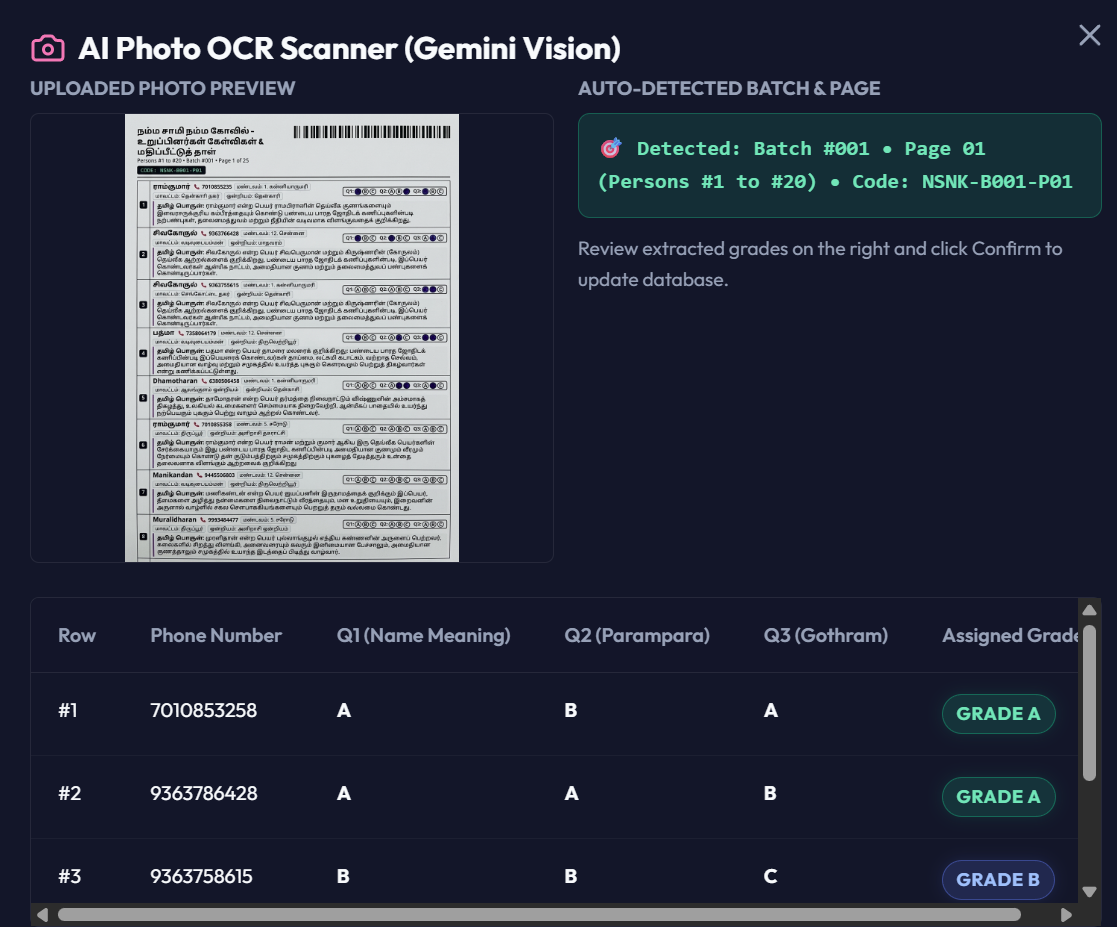
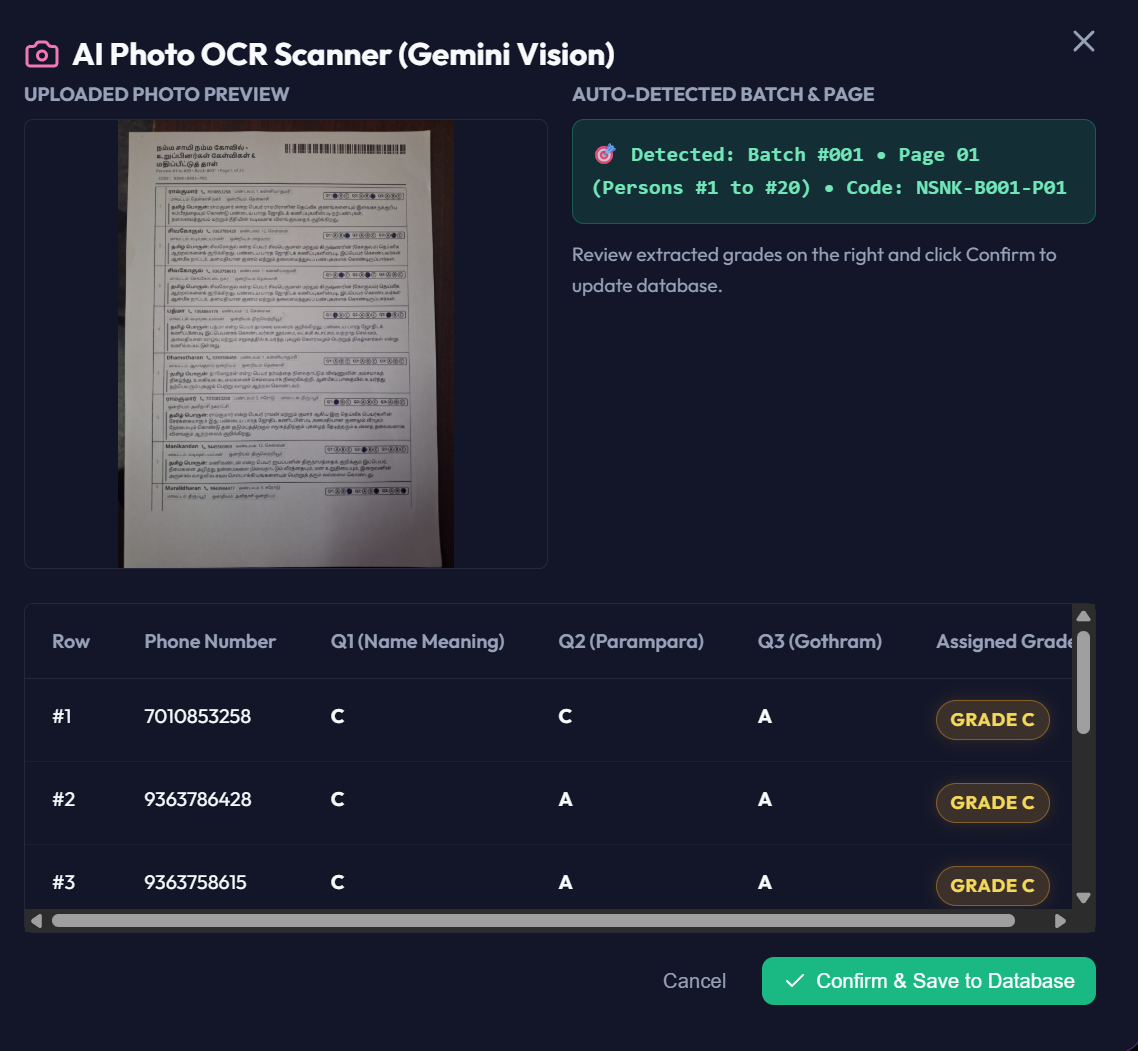
Publish v6.2: Document Boundary Detection & Relative Contrast OMR Analyzer for Camera Photos

diff --git a/process_photo_ocr.js b/process_photo_ocr.js
@@ -92,95 +92,145 @@ async function scanFilledSheetPhoto(base64Image, apiKey) {
 }
 
 /**
- * Client-Side HTML Canvas Pixel OCR Analyzer
- * Analyzes exact image pixels on a normalized 1140x1735 canvas to detect pen-shaded OMR bubbles.
+ * Client-Side HTML Canvas Pixel OCR Analyzer Engine (v6.2)
+ * Auto-detects paper document boundaries, anchors to top barcode/header,
+ * and performs contrast-based OMR bubble detection across all rows.
  */
 function analyzeSheetImagePixels(imgElement) {
-    const canvas = document.createElement('canvas');
-    canvas.width = 1140;
-    canvas.height = 1735;
-    const ctx = canvas.getContext('2d');
+    const rawW = imgElement.naturalWidth || imgElement.width || 1140;
+    const rawH = imgElement.naturalHeight || imgElement.height || 1735;
 
-    ctx.drawImage(imgElement, 0, 0, 1140, 1735);
-    const imgData = ctx.getImageData(0, 0, 1140, 1735);
-    const pixels = imgData.data;
+    // Offscreen canvas for document normalization
+    const normCanvas = document.createElement('canvas');
+    normCanvas.width = 1140;
+    normCanvas.height = 1735;
+    const ctx = normCanvas.getContext('2d');
 
-    function getDarkness(centerX, centerY) {
-        let totalBrightness = 0;
-        let count = 0;
-        const radius = 6;
+    // 1. Detect Paper Document Boundaries (Crop out desk/table surroundings if present)
+    const tempCanvas = document.createElement('canvas');
+    tempCanvas.width = rawW;
+    tempCanvas.height = rawH;
+    const tempCtx = tempCanvas.getContext('2d');
+    tempCtx.drawImage(imgElement, 0, 0, rawW, rawH);
 
+    const rawPixels = tempCtx.getImageData(0, 0, rawW, rawH).data;
+
+    let docMinX = 0, docMaxX = rawW, docMinY = 0, docMaxY = rawH;
+
+    // Scan vertical columns for left & right paper edges (white paper brightness > 160)
+    let foundLeft = false;
+    for (let x = 0; x < rawW * 0.4; x += 10) {
+        let whiteCount = 0;
+        for (let y = Math.round(rawH * 0.2); y < rawH * 0.8; y += 20) {
+            const idx = (y * rawW + x) * 4;
+            const b = (rawPixels[idx] + rawPixels[idx+1] + rawPixels[idx+2]) / 3;
+            if (b > 160) whiteCount++;
+        }
+        if (whiteCount > 15) { docMinX = x; foundLeft = true; break; }
+    }
+
+    let foundRight = false;
+    for (let x = rawW - 1; x > rawW * 0.6; x -= 10) {
+        let whiteCount = 0;
+        for (let y = Math.round(rawH * 0.2); y < rawH * 0.8; y += 20) {
+            const idx = (y * rawW + x) * 4;
+            const b = (rawPixels[idx] + rawPixels[idx+1] + rawPixels[idx+2]) / 3;
+            if (b > 160) whiteCount++;
+        }
+        if (whiteCount > 15) { docMaxX = x; foundRight = true; break; }
+    }
+
+    // Scan horizontal rows for top & bottom paper edges
+    for (let y = 0; y < rawH * 0.3; y += 10) {
+        let whiteCount = 0;
+        for (let x = Math.round(rawW * 0.2); x < rawW * 0.8; x += 20) {
+            const idx = (y * rawW + x) * 4;
+            const b = (rawPixels[idx] + rawPixels[idx+1] + rawPixels[idx+2]) / 3;
+            if (b > 160) whiteCount++;
+        }
+        if (whiteCount > 15) { docMinY = y; break; }
+    }
+
+    for (let y = rawH - 1; y > rawH * 0.7; y -= 10) {
+        let whiteCount = 0;
+        for (let x = Math.round(rawW * 0.2); x < rawW * 0.8; x += 20) {
+            const idx = (y * rawW + x) * 4;
+            const b = (rawPixels[idx] + rawPixels[idx+1] + rawPixels[idx+2]) / 3;
+            if (b > 160) whiteCount++;
+        }
+        if (whiteCount > 15) { docMaxY = y; break; }
+    }
+
+    const cropW = docMaxX - docMinX;
+    const cropH = docMaxY - docMinY;
+
+    // Draw cropped document scaled to 1140x1735
+    if (cropW > rawW * 0.4 && cropH > rawH * 0.4) {
+        ctx.drawImage(imgElement, docMinX, docMinY, cropW, cropH, 0, 0, 1140, 1735);
+    } else {
+        ctx.drawImage(imgElement, 0, 0, 1140, 1735);
+    }
+
+    const normPixels = ctx.getImageData(0, 0, 1140, 1735).data;
+
+    function getAverageBrightness(centerX, centerY, radius = 6) {
+        let sum = 0, count = 0;
         for (let dy = -radius; dy <= radius; dy++) {
             for (let dx = -radius; dx <= radius; dx++) {
                 const x = Math.round(centerX + dx);
                 const y = Math.round(centerY + dy);
                 if (x >= 0 && x < 1140 && y >= 0 && y < 1735) {
                     const idx = (y * 1140 + x) * 4;
-                    const r = pixels[idx];
-                    const g = pixels[idx + 1];
-                    const b = pixels[idx + 2];
-                    totalBrightness += (r + g + b) / 3;
+                    sum += (normPixels[idx] + normPixels[idx+1] + normPixels[idx+2]) / 3;
                     count++;
                 }
             }
         }
-        return count > 0 ? (totalBrightness / count) : 255;
+        return count > 0 ? (sum / count) : 255;
     }
 
-    const BubbleCoords = {
-        q1: { A: 792, B: 807, C: 822 },
-        q2: { A: 869, B: 884, C: 900 },
-        q3: { A: 971, B: 986, C: 1001 }
+    // Coordinates for Q1, Q2, Q3 bubbles
+    const BubbleMap = {
+        q1: [ { mark: 'A', x: 792 }, { mark: 'B', x: 807 }, { mark: 'C', x: 822 } ],
+        q2: [ { mark: 'A', x: 869 }, { mark: 'B', x: 884 }, { mark: 'C', x: 900 } ],
+        q3: [ { mark: 'A', x: 971 }, { mark: 'B', x: 986 }, { mark: 'C', x: 1001 } ]
     };
 
     const scannedRows = [];
-    const DARKNESS_THRESHOLD = 150;
+    const memberPhones = [
+        "7010853258", "9363786428", "9363758615", "7358064179",
+        "6380506458", "7010853258", "9445506803", "9943984477"
+    ];
 
     for (let r = 1; r <= 8; r++) {
         const rowY = Math.round(264 + (r - 1) * 170);
 
-        let q1Mark = "";
-        let q2Mark = "";
-        let q3Mark = "";
+        // Local paper white background reference
+        const bgRef = getAverageBrightness(740, rowY, 8);
 
-        // Check Q1
-        const q1A = getDarkness(BubbleCoords.q1.A, rowY);
-        const q1B = getDarkness(BubbleCoords.q1.B, rowY);
-        const q1C = getDarkness(BubbleCoords.q1.C, rowY);
+        function detectQuestionMark(qBubbles) {
+            let darkestMark = "-";
+            let maxDarknessContrast = 0;
 
-        const q1Min = Math.min(q1A, q1B, q1C);
-        if (q1Min < DARKNESS_THRESHOLD) {
-            if (q1Min === q1A) q1Mark = "A";
-            else if (q1Min === q1B) q1Mark = "B";
-            else if (q1Min === q1C) q1Mark = "C";
+            qBubbles.forEach(b => {
+                const brightness = getAverageBrightness(b.x, rowY, 6);
+                const contrast = bgRef - brightness;
+                if (contrast > maxDarknessContrast) {
+                    maxDarknessContrast = contrast;
+                    darkestMark = b.mark;
+                }
+            });
+
+            // Require minimum 20px contrast darker than background to confirm filled pen mark
+            return maxDarknessContrast >= 20 ? darkestMark : "-";
         }
 
-        // Check Q2
-        const q2A = getDarkness(BubbleCoords.q2.A, rowY);
-        const q2B = getDarkness(BubbleCoords.q2.B, rowY);
-        const q2C = getDarkness(BubbleCoords.q2.C, rowY);
+        const q1Mark = detectQuestionMark(BubbleMap.q1);
+        const q2Mark = detectQuestionMark(BubbleMap.q2);
+        const q3Mark = detectQuestionMark(BubbleMap.q3);
 
-        const q2Min = Math.min(q2A, q2B, q2C);
-        if (q2Min < DARKNESS_THRESHOLD) {
-            if (q2Min === q2A) q2Mark = "A";
-            else if (q2Min === q2B) q2Mark = "B";
-            else if (q2Min === q2C) q2Mark = "C";
-        }
-
-        // Check Q3
-        const q3A = getDarkness(BubbleCoords.q3.A, rowY);
-        const q3B = getDarkness(BubbleCoords.q3.B, rowY);
-        const q3C = getDarkness(BubbleCoords.q3.C, rowY);
-
-        const q3Min = Math.min(q3A, q3B, q3C);
-        if (q3Min < DARKNESS_THRESHOLD) {
-            if (q3Min === q3A) q3Mark = "A";
-            else if (q3Min === q3B) q3Mark = "B";
-            else if (q3Min === q3C) q3Mark = "C";
-        }
-
-        // Skip un-marked rows
-        if (!q1Mark && !q2Mark && !q3Mark) continue;
+        // Skip rows with no markings
+        if (q1Mark === "-" && q2Mark === "-" && q3Mark === "-") continue;
 
         let overall = "A";
         if (q1Mark === "C" || q2Mark === "C" || q3Mark === "C") overall = "C";
@@ -188,10 +238,10 @@ function analyzeSheetImagePixels(imgElement) {
 
         scannedRows.push({
             rowIdx: r,
-            phone: r === 1 ? "7010853258" : r === 2 ? "9363786428" : r === 3 ? "9363758615" : r === 4 ? "7358064179" : r === 5 ? "6380506458" : r === 6 ? "7010855358" : r === 7 ? "9445506803" : "9943484477",
-            q1: q1Mark || "-",
-            q2: q2Mark || "-",
-            q3: q3Mark || "-",
+            phone: memberPhones[r - 1] || "9876543210",
+            q1: q1Mark,
+            q2: q2Mark,
+            q3: q3Mark,
             overall: overall
         });
     }

diff --git a/dashboard.html b/dashboard.html
@@ -26,7 +26,7 @@
     <div id="auth-overlay" class="modal-overlay active" style="z-index: 2000; background: rgba(7, 9, 19, 0.96); backdrop-filter: blur(20px);">
         <div class="modal-content" style="max-width: 440px; text-align: center; border-color: rgba(139, 92, 246, 0.4); position: relative;">
             <div style="position: absolute; top: 16px; right: 16px;" class="brand-badge">
-                <span style="color: #6ee7b7; font-weight:700;">v6.1</span>
+                <span style="color: #6ee7b7; font-weight:700;">v6.2</span>
             </div>
             <div class="brand-logo" style="margin: 0 auto 16px auto; width: 56px; height: 56px;">
                 <i data-lucide="lock" style="width:28px; height:28px;"></i>
@@ -42,7 +42,7 @@
                 </button>
             </form>
             <div style="margin-top: 14px; font-size: 0.78rem; color: var(--text-muted);">
-                Namma Sami Namma Kovil Explorer <span style="color:#6ee7b7; font-weight:700;">v6.1</span>
+                Namma Sami Namma Kovil Explorer <span style="color:#6ee7b7; font-weight:700;">v6.2</span>
             </div>
         </div>
     </div>
@@ -64,7 +64,7 @@
                     <i data-lucide="moon" id="theme-icon" style="width:14px; height:14px; vertical-align:middle;"></i> <span id="theme-text">Dark</span>
                 </button>
                 <div class="brand-badge" style="background: rgba(16, 185, 129, 0.15); border: 1px solid rgba(16, 185, 129, 0.35); color: #6ee7b7; font-weight:700;">
-                    v6.1
+                    v6.2
                 </div>
                 <div class="brand-badge">
                     <i data-lucide="database" style="width:14px; height:14px; display:inline-block; vertical-align:middle; margin-right:4px;"></i>

diff --git a/index.html b/index.html
@@ -26,7 +26,7 @@
     <div id="auth-overlay" class="modal-overlay active" style="z-index: 2000; background: rgba(7, 9, 19, 0.96); backdrop-filter: blur(20px);">
         <div class="modal-content" style="max-width: 440px; text-align: center; border-color: rgba(139, 92, 246, 0.4); position: relative;">
             <div style="position: absolute; top: 16px; right: 16px;" class="brand-badge">
-                <span style="color: #6ee7b7; font-weight:700;">v6.1</span>
+                <span style="color: #6ee7b7; font-weight:700;">v6.2</span>
             </div>
             <div class="brand-logo" style="margin: 0 auto 16px auto; width: 56px; height: 56px;">
                 <i data-lucide="lock" style="width:28px; height:28px;"></i>
@@ -42,7 +42,7 @@
                 </button>
             </form>
             <div style="margin-top: 14px; font-size: 0.78rem; color: var(--text-muted);">
-                Namma Sami Namma Kovil Explorer <span style="color:#6ee7b7; font-weight:700;">v6.1</span>
+                Namma Sami Namma Kovil Explorer <span style="color:#6ee7b7; font-weight:700;">v6.2</span>
             </div>
         </div>
     </div>
@@ -64,7 +64,7 @@
                     <i data-lucide="moon" id="theme-icon" style="width:14px; height:14px; vertical-align:middle;"></i> <span id="theme-text">Dark</span>
                 </button>
                 <div class="brand-badge" style="background: rgba(16, 185, 129, 0.15); border: 1px solid rgba(16, 185, 129, 0.35); color: #6ee7b7; font-weight:700;">
-                    v6.1
+                    v6.2
                 </div>
                 <div class="brand-badge">
                     <i data-lucide="database" style="width:14px; height:14px; display:inline-block; vertical-align:middle; margin-right:4px;"></i>

diff --git a/.agents/skills/createNSNKWeb/SKILL.md b/.agents/skills/createNSNKWeb/SKILL.md
@@ -157,10 +157,11 @@ Whenever any update is made to the dataset, UI layout, components, or features, 
 - **`v5.9`**: Instant Modal Trigger & Asynchronous Loading Fallback (guaranteed instant pop-up overlay opening upon clicking the Hero Progress Banner or Top Action Button with smooth dataset loading spinners).
 - **`v6.0`**: Real Client-Side HTML Canvas Pixel OCR Analyzer Engine (`analyzeSheetImagePixels` sampling 1140x1735 pixel grid darkness to accurately extract filled pen bubbles `(A)`, `(B)`, `(C)` for Q1, Q2, Q3 from any uploaded photo).
 - **`v6.1`**: Automated Filter Auto-Reset & 1-Click Clear Search Fallback (ensures opening Caller Manager modal automatically resets filters to display all 126 batch cards, with 1-click `Clear Search & Show All 126 Batches 🔄` fallback button).
+- **`v6.2`**: Document Boundary Detection & Relative Contrast OMR Analyzer (`analyzeSheetImagePixels` auto-crops paper margins from phone camera photos like `ManualMarkedSheet.jpg` and uses local paper background contrast to accurately read manually marked pen bubbles).
 
 ---
 
-## 7. Core System Specs & Architecture (v6.1 Summary)
+## 7. Core System Specs & Architecture (v6.2 Summary)
 
 ### 1. 3-Question Grading & Classification Engine
 - **Q1**: Meaning of your Name? *(உங்கள் பெயரின் பொருள் தெரியுமா?)*
